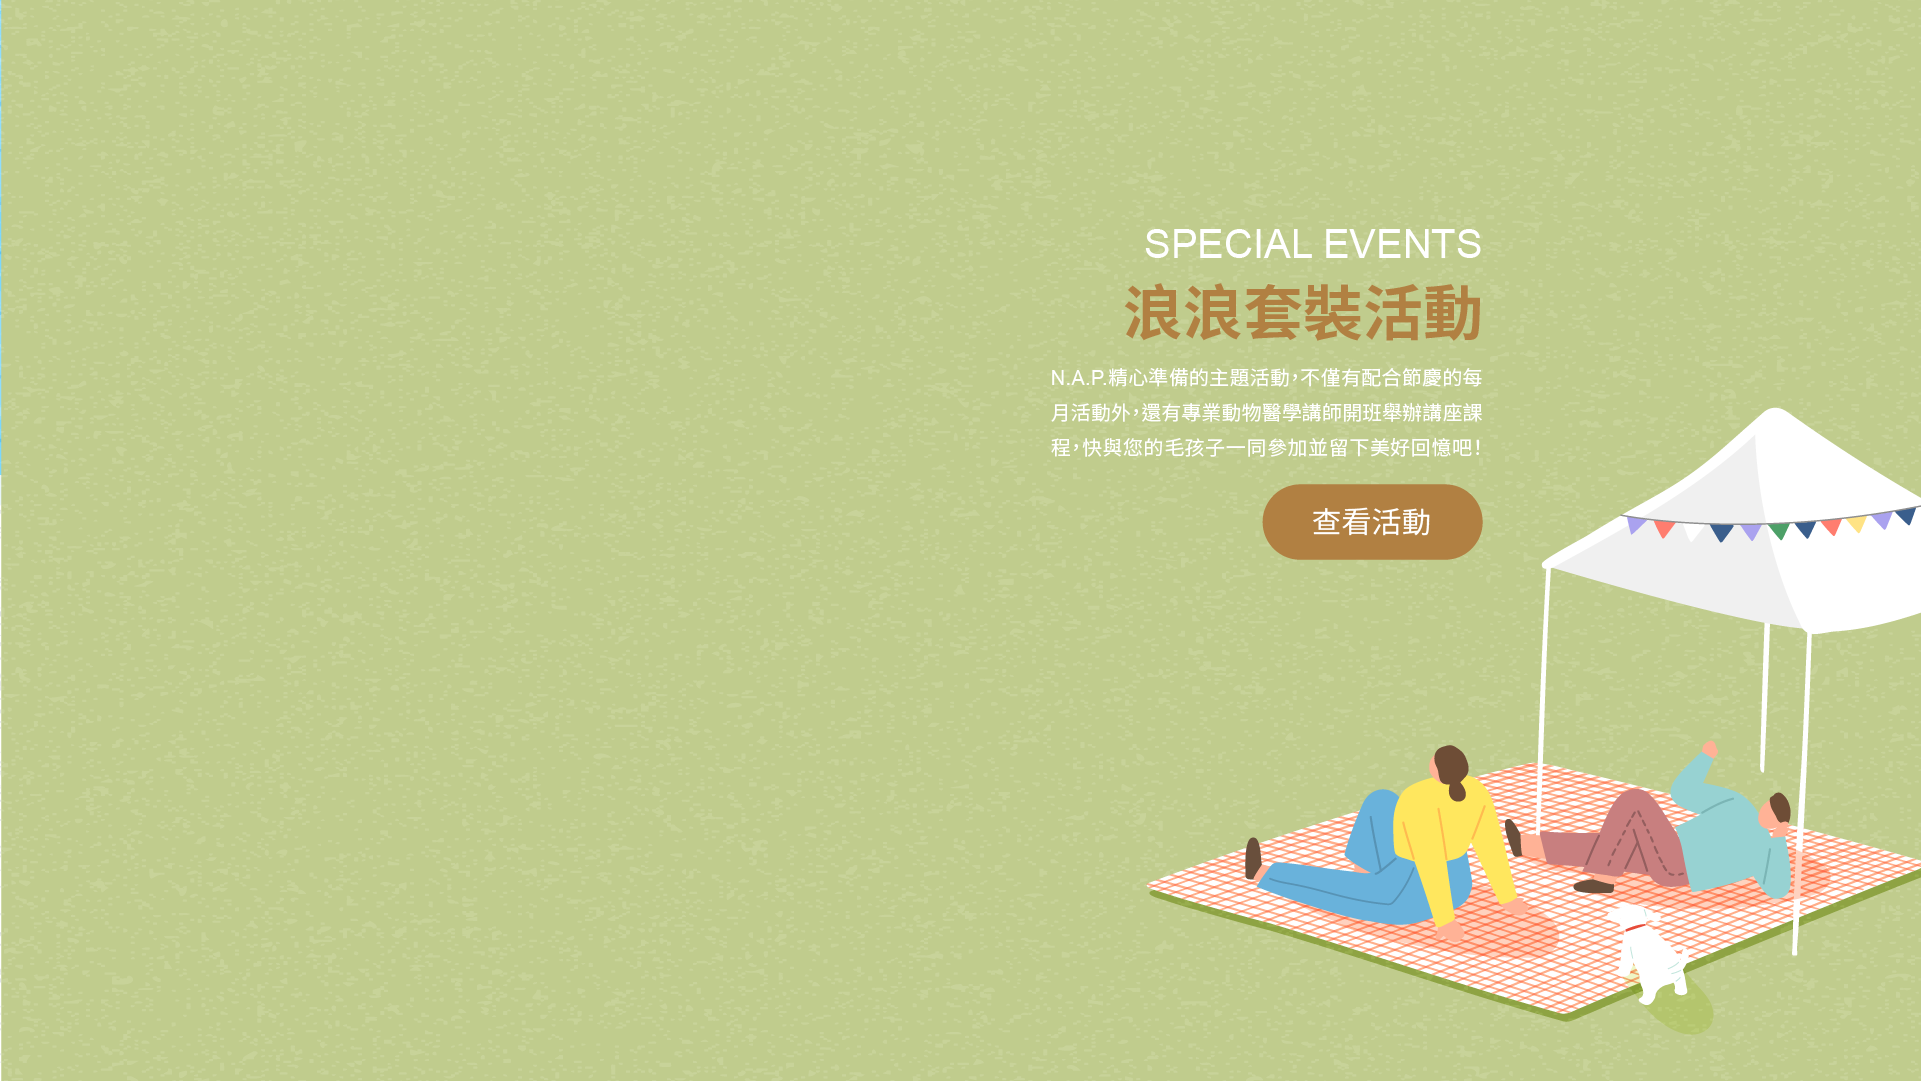
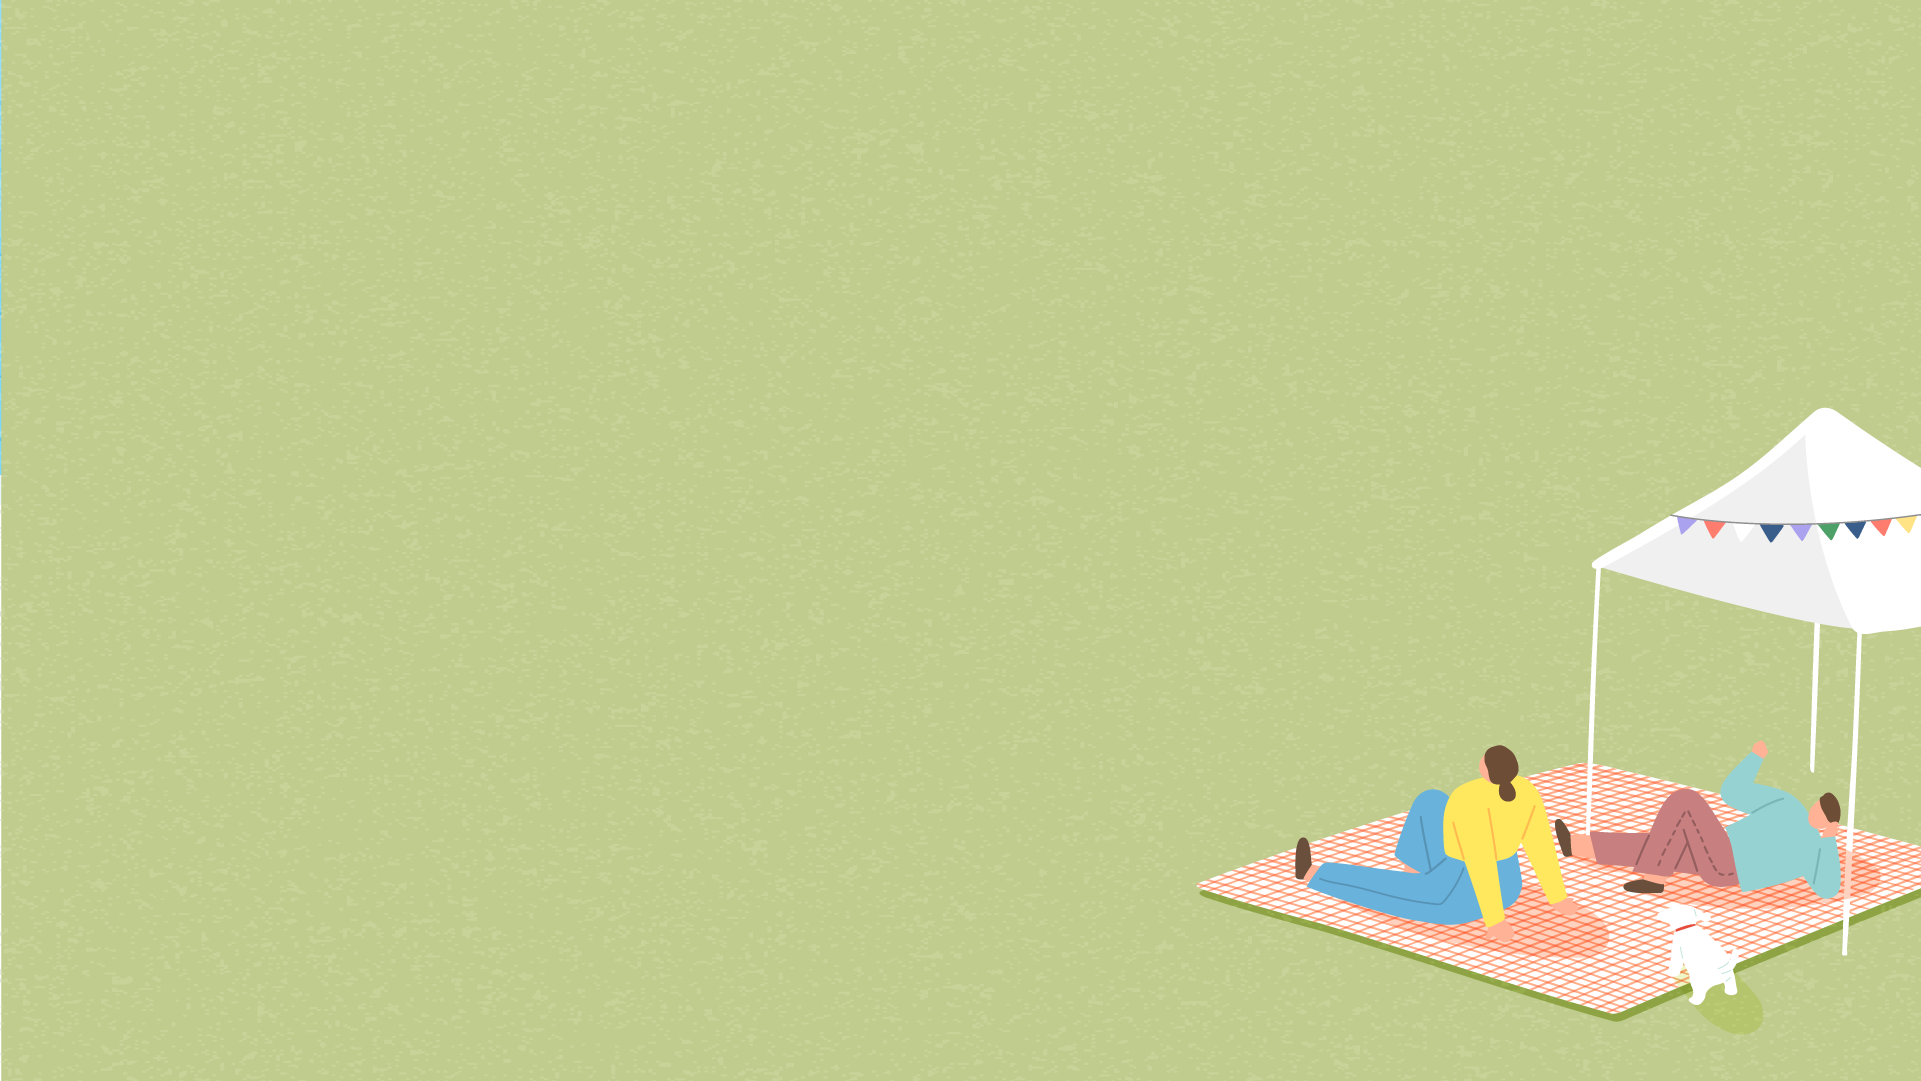
0908-1101-p
1. 桌機版-活動頁banner修改

Changed region(s): [[0.5934, 0.5495, 1.0, 0.9769], [0.531, 0.2137, 0.7808, 0.519], [0.7808, 0.3663, 1.0, 0.5495]]

diff --git a/penny/css_p/Events_Page..css b/penny/css_p/Events_Page..css
@@ -173,7 +173,7 @@ body{
         display: block;
         width: 45%;
         position: absolute;
-        top: 82%;
+        top: 83%;
         right: 0%;
         overflow: hidden;
     }
@@ -182,6 +182,7 @@ body{
     }
     /* 每月特別活動 | 桌機版 */
     .banner-special-pc{
+        background: url('../img_p/illustration/illustration-77-1.png') no-repeat right center / cover;        
         width: 100%;
         height: 100vh;
         justify-content: space-between;
@@ -191,14 +192,62 @@ body{
         width: 100%;
         height: 100vh;
     }
+    .events-banner-special-textbox{
+        width: 450px;
+        height: 380px;
+        padding-top: 30px;
+        display: flex;
+        flex-direction: column;
+        align-items: flex-end;
+        position: absolute;
+        top: 250px;
+        right: 350px;
+    }
+    .events-banner-special-textbox h3{
+        font-size: var(--headline_40px);
+        padding-bottom: 20px;
+    }
+    .events-banner-special-textbox h2{
+        font-size: var(--headline_60px);
+        font-weight: 600;
+        color: var(--secondaryColor_default);
+        padding-bottom: 20px;
+    }
+    .events-banner-special-textbox p{
+        width: 100%;
+        font-size: var(--headline_20px);
+        text-align: justify;
+        line-height: 1.6;
+        padding-bottom: 30px;
+        text-align: right;
+    }
+    .events-banner-special-textbox span{
+        display: none;
+    }
+    .events-banner-special-btn{
+        width: 100%;
+        text-align: right;
+    }
+    .events-banner-special-btn a{
+        font-size: var(--headline_28px);
+        text-decoration: none;
+        padding: 5px 30px;
+        border-radius: 30px;
+        background-color: var(--secondaryColor_default);
+        color: var(--white);
+    }
+    .events-banner-special-btn a:hover{
+        background-color: #ecbc7c;
+    } 
     /* 浪浪套裝活動 | 桌機版 */
     .banner-package-pc{
+        background: url('../img_p/illustration/illustration-76-1.png') no-repeat left center / cover;  
         width: 50%;
         height: 100vh;
         position: absolute;
         top: 0;
         left: 0;
-        transition: 0.3s linear;
+        transition: 0.1s linear;
         overflow: hidden;
     }
     .banner-package-pc img{
@@ -206,5 +255,50 @@ body{
         height: 100vh;
         object-fit: cover;
         object-position: 0 0;
-    }   
+    }
+    .events-banner-package-textbox{
+        width: 450px;
+        height: 380px;
+        display: flex;
+        flex-direction: column;
+        align-items: flex-start;
+        position: absolute;
+        top: 250px;
+        left: 350px;
+    }
+    .events-banner-package-textbox h3{
+        font-size: var(--headline_40px);
+        padding-bottom: 20px;
+    }
+    .events-banner-package-textbox h2{
+        font-size: var(--headline_60px);
+        font-weight: 600;
+        color: var(--primaryColor_dark);
+        padding-bottom: 20px;
+    }
+    .events-banner-package-textbox p{
+        width: 100%;
+        font-size: var(--headline_20px);
+        text-align: justify;
+        line-height: 1.6;
+        padding-bottom: 30px;
+    }
+    .events-banner-package-textbox span{
+        display: none;
+    }
+    .events-banner-package-btn{
+        width: 100%;
+        text-align: left;
+    }
+    .events-banner-package-btn a{
+        font-size: var(--headline_28px);
+        text-decoration: none;
+        padding: 5px 30px;
+        border-radius: 30px;
+        background-color: var(--primaryColor_dark);
+        color: var(--white);
+    }
+    .events-banner-package-btn a:hover{
+        background-color: var(--primaryColor_light);
+    }     
 }

diff --git a/penny/Events_Page.html b/penny/Events_Page.html
@@ -41,16 +41,24 @@
     </div>
     <div class="events-banner-row-pc">
         <div class="banner-special-pc">
-            <img src="./img_p/illustration/illustration-77-1.png" usemap="#image-map-special">
-            <map name="image-map-special" usemap="#image-map-special">
-                <area alt="" title="" href="#" coords="1262,485,1481,563" shape="rect">
-            </map>       
+            <div class="events-banner-special-textbox">
+                <h3>PACKAGE EVENTS</h3>
+                <h2>每月特別活動</h2>
+                <p>N.A.P.精心準備的主題活動，不僅有配合節慶的每月活動外，還有專業動物醫學講師開班舉辦講座課程，快與您的毛孩子一同參加並留下美好回憶吧！</p>
+                <div class="events-banner-special-btn">
+                    <a href="">查看活動</a>
+                </div>
+            </div>     
         </div>
         <div class="banner-package-pc">
-            <img src="./img_p/illustration/illustration-78-1.png" usemap="#image-map-package">
-            <map name="image-map-package" usemap="#iimage-map-package">
-                <area alt="" title="" href="#" coords="440,482,659,558" shape="rect">
-            </map>
+            <div class="events-banner-package-textbox">
+                <h3>PACKAGE EVENTS</h3>
+                <h2>浪浪套裝活動</h2>
+                <p>歡迎你來到N.A.P.園區，尋找你命定的另一「伴」！<span> N.A.P.透過各種活動與知識課程，</span>讓你與浪浪們在兩日的相處下能透過活動更加的了解彼此。</p>
+                <div class="events-banner-package-btn">
+                    <a href="">查看活動</a>
+                </div>
+            </div>            
         </div>
         <div class="events-banner-ai01-imgbox">
             <img src="./img_p/illustration/illustration-66.png" alt="">
@@ -68,12 +76,12 @@
         // picWidth.css("width", 100 - mouseNow + "%");
         // });
          
-        $('.banner-special-pc').mouseenter(function(){
-            $('.banner-package-pc').css('width', 3+'%');
-        })
-        $('.banner-special-pc').mouseleave(function(){
-            $('.banner-package-pc').css('width', 97+'%');
-        })
+        // $('.banner-special-pc').mouseenter(function(){
+        //     $('.banner-package-pc').css('width', 3+'%');
+        // })
+        // $('.banner-special-pc').mouseleave(function(){
+        //     $('.banner-package-pc').css('width', 97+'%');
+        // })
 
 
 
